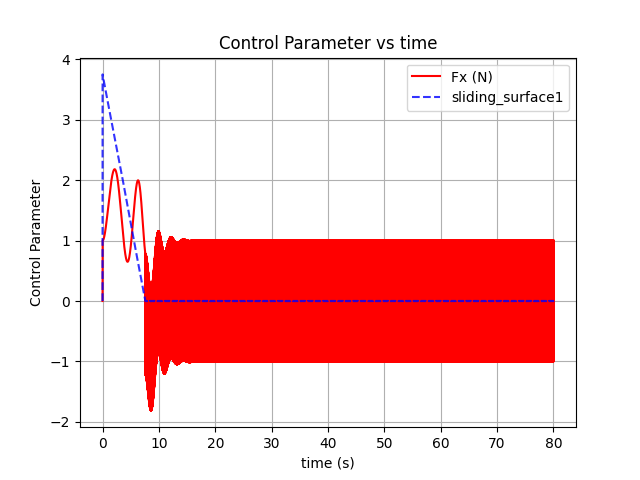
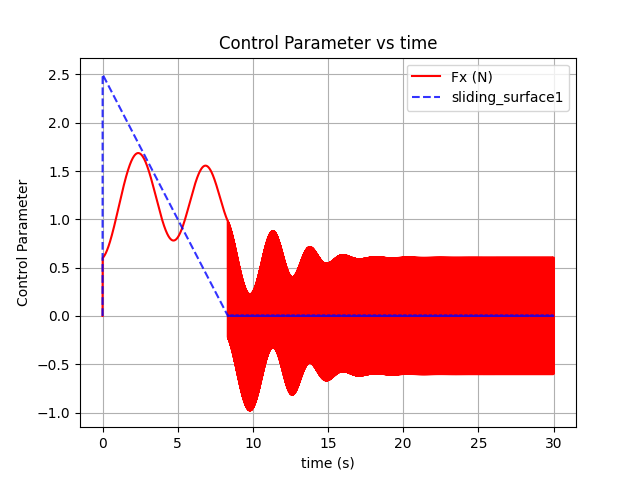
Lalala

diff --git a/Simulasi/simulasi_gantry.py b/Simulasi/simulasi_gantry.py
@@ -38,8 +38,8 @@ g = 9.81
 
 # Control Parameter
 # K must be > 0
-k = 1.0
-lambda1 = 0.75
+k = 0.3
+lambda1 = 0.5
 lambda2 = 0.7
 alpha1 = 1.5
 alpha2 = 0.0
@@ -50,7 +50,7 @@ matrix_I = np.matrix([[1.0, 0.0, 0.0], [0.0, 1.0, 0.0]])
 
 # Simulation Parameter
 dt = 0.005
-duration = 80.0
+duration = 30.0
 steady_state_checking_duration_window = 1.0
 
 y_initial = np.matrix([[0.0], [6.0], [0.0]])
@@ -157,8 +157,8 @@ for j in range(int(duration / dt) - 1):
     control_now = np.linalg.inv(matrix_B_cap) * (
         -np.matmul((matrix_A_cap + matrix_lambda), y_dot)
         - matrix_G_cap
-        - matrix_alpha * theta_dot._x[j]
-    ) + k * sign_matrix(sliding_surface_now)
+        - matrix_alpha * theta_dot._x[j] + k * sign_matrix(sliding_surface_now)
+    ) 
     control_now = np.clip(control_now, -control_limit, control_limit)
 
     # Create dummy matrix for state
